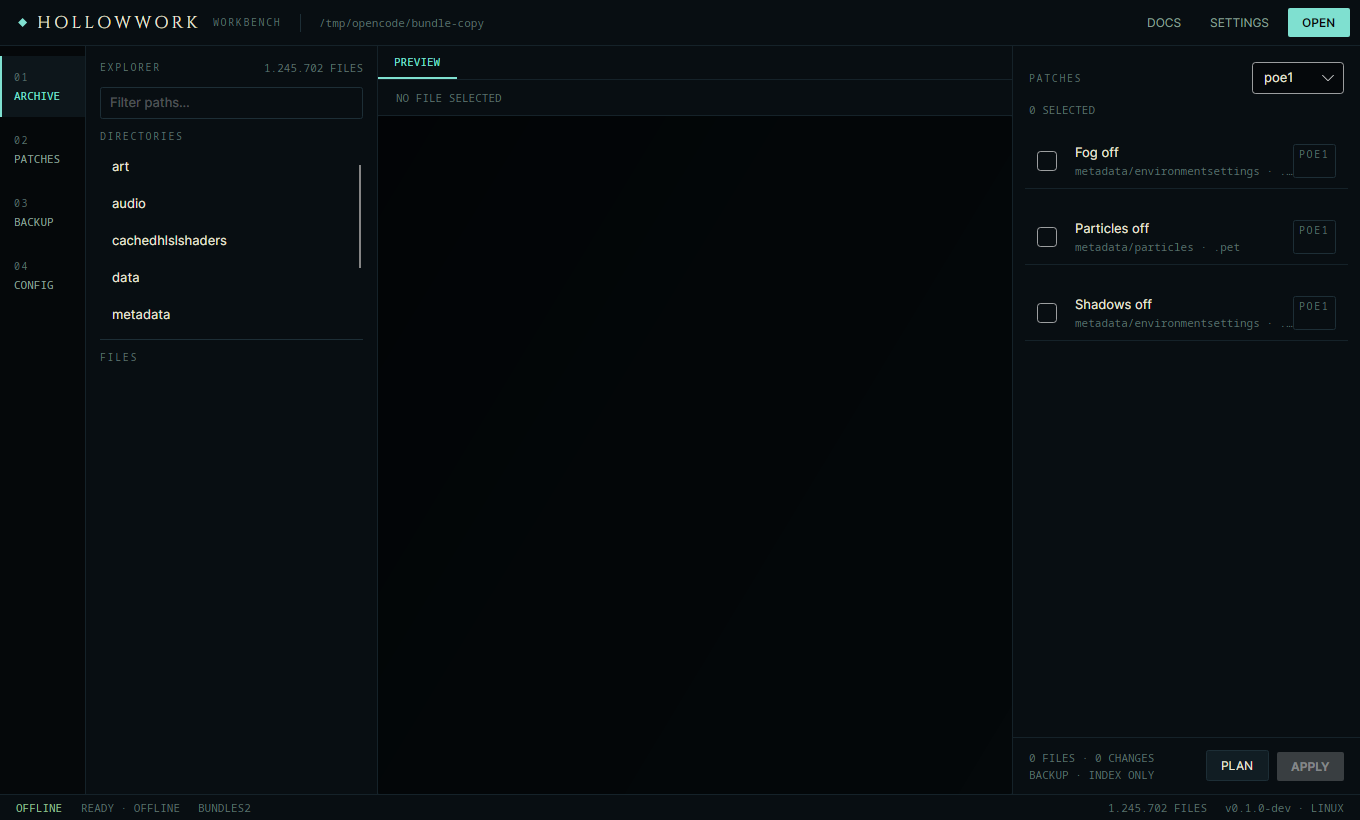
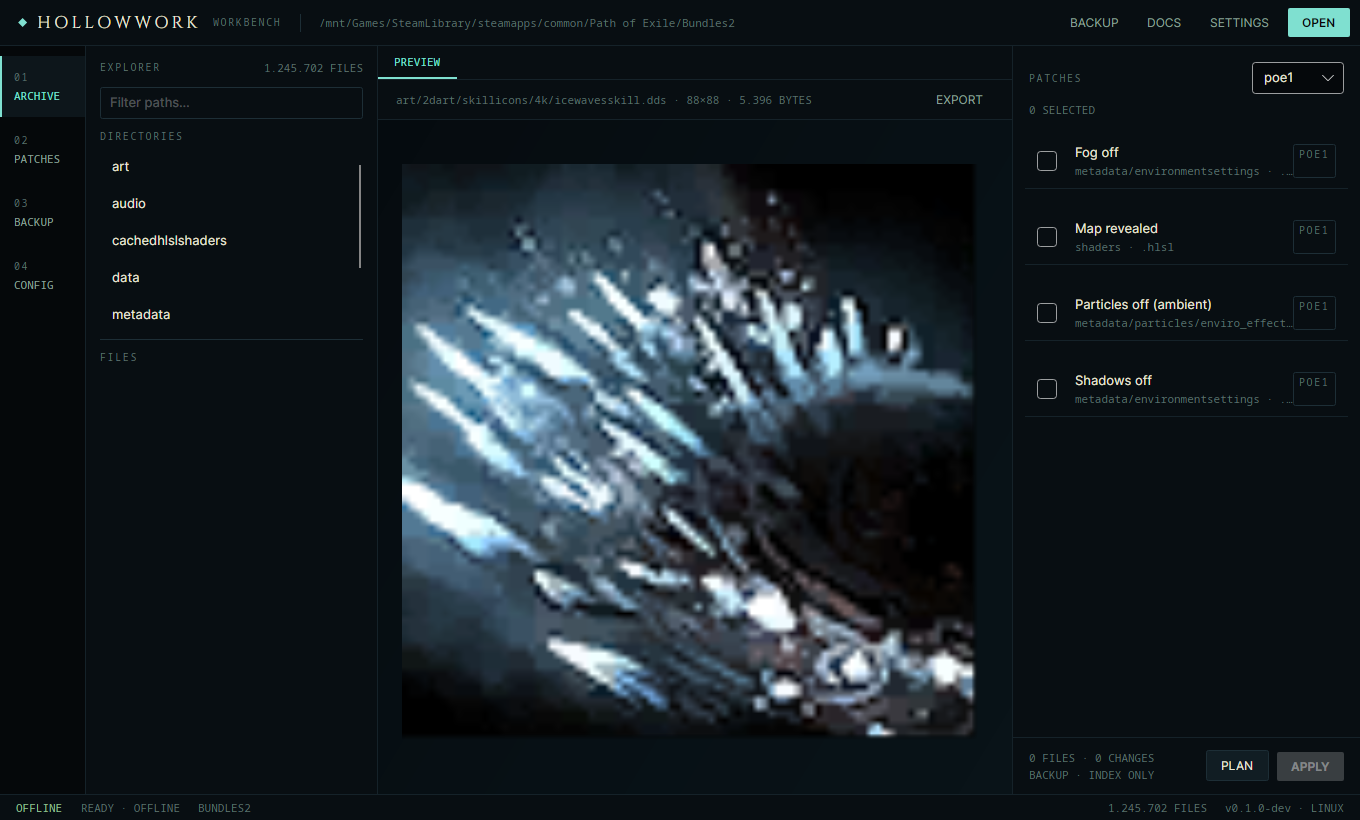
feat: dds preview and export in the browser (#19)

diff --git a/src/Hollowwork.App/ViewModels/MainWindowViewModel.cs b/src/Hollowwork.App/ViewModels/MainWindowViewModel.cs
@@ -1,12 +1,17 @@
 using System.Collections.ObjectModel;
 using System.ComponentModel;
 using System.Runtime.CompilerServices;
+using System.Runtime.InteropServices;
+using Avalonia;
+using Avalonia.Media.Imaging;
+using Avalonia.Platform;
 using Hollowwork.App;
 using Hollowwork.Core.Archives;
 using Hollowwork.Core.Backup;
 using Hollowwork.Core.Oodle;
 using Hollowwork.Core.Patches;
 using Hollowwork.Core.Text;
+using Hollowwork.Core.Textures;
 using Hollowwork.Patches;
 
 namespace Hollowwork.App.ViewModels;
@@ -18,6 +23,9 @@ public sealed class MainWindowViewModel : INotifyPropertyChanged, IDisposable
     private const int PreviewLimit = 200_000;
 
     private IArchiveSession? _session;
+    private WriteableBitmap? _previewImage;
+    private byte[]? _selectedBytes;
+    private string? _selectedPath;
     private PatchPlan? _plan;
     private string? _currentDirectory;
     private bool _applyArmed;
@@ -131,6 +139,29 @@ public sealed class MainWindowViewModel : INotifyPropertyChanged, IDisposable
         private set => Set(ref _isBusy, value);
     }
 
+    public WriteableBitmap? PreviewImage
+    {
+        get => _previewImage;
+        private set
+        {
+            if (ReferenceEquals(_previewImage, value))
+            {
+                return;
+            }
+
+            _previewImage?.Dispose();
+            _previewImage = value;
+            OnPropertyChanged();
+            OnPropertyChanged(nameof(HasImage));
+        }
+    }
+
+    public bool HasImage => _previewImage is not null;
+
+    public string? SelectedPath => _selectedPath;
+
+    public bool CanExport => _selectedBytes is not null;
+
     public string SelectionLabel => $"{Patches.Count(patch => patch.IsSelected)} SELECTED";
 
     public string? CurrentInputPath { get; private set; }
@@ -161,6 +192,10 @@ public sealed class MainWindowViewModel : INotifyPropertyChanged, IDisposable
         ResetPlan();
         PreviewHeader = "NO FILE SELECTED";
         PreviewText = string.Empty;
+        PreviewImage = null;
+        _selectedBytes = null;
+        _selectedPath = null;
+        OnPropertyChanged(nameof(CanExport));
 
         IArchiveSession? session = null;
         try
@@ -181,7 +216,7 @@ public sealed class MainWindowViewModel : INotifyPropertyChanged, IDisposable
             CountLabel = $"{paths.Count:N0} FILES";
             BackupNotice = _session.Kind == ArchiveKind.Ggpk
                 ? "BACKUP · FULL ARCHIVE"
-                : "BACKUP · INDEX ONLY";
+                : "BACKUP · INDEX + LIBGGPK3";
             StatusLabel = "READY · OFFLINE";
 
             Directories.Clear();
@@ -254,6 +289,21 @@ public sealed class MainWindowViewModel : INotifyPropertyChanged, IDisposable
                 _session.TryRead(path, out var content);
                 return content;
             });
+
+            _selectedBytes = bytes;
+            _selectedPath = path;
+            OnPropertyChanged(nameof(CanExport));
+            OnPropertyChanged(nameof(SelectedPath));
+            PreviewImage = null;
+            PreviewText = string.Empty;
+
+            if (path.EndsWith(".dds", StringComparison.OrdinalIgnoreCase)
+                && TextureDecoder.TryDecodeDds(bytes, out var texture))
+            {
+                PreviewImage = ToBitmap(texture);
+                PreviewHeader = $"{path} · {texture.Width}×{texture.Height} · {bytes.Length:N0} BYTES";
+                return;
+            }
 
             PreviewHeader = $"{path} · {bytes.Length:N0} BYTES";
 
@@ -385,10 +435,39 @@ public sealed class MainWindowViewModel : INotifyPropertyChanged, IDisposable
         }
     }
 
+    public async Task ExportAsync(string destination)
+    {
+        if (_selectedBytes is null)
+        {
+            return;
+        }
+
+        await File.WriteAllBytesAsync(destination, _selectedBytes);
+        StatusLabel = $"EXPORTED · {destination}";
+    }
+
     public void Dispose()
     {
         _session?.Dispose();
         _session = null;
+    }
+
+    private static WriteableBitmap ToBitmap(DecodedTexture texture)
+    {
+        var bitmap = new WriteableBitmap(
+            new PixelSize(texture.Width, texture.Height),
+            new Vector(96, 96),
+            PixelFormat.Bgra8888,
+            AlphaFormat.Unpremul);
+
+        using var buffer = bitmap.Lock();
+        var rowBytes = texture.Width * 4;
+        for (var y = 0; y < texture.Height; y++)
+        {
+            Marshal.Copy(texture.Bgra, y * rowBytes, IntPtr.Add(buffer.Address, y * buffer.RowBytes), rowBytes);
+        }
+
+        return bitmap;
     }
 
     private void LoadPatches()

diff --git a/src/Hollowwork.App/Views/MainWindow.axaml.cs b/src/Hollowwork.App/Views/MainWindow.axaml.cs
@@ -9,25 +9,33 @@ public partial class MainWindow : Window
 {
     private readonly MainWindowViewModel _viewModel = new();
 
-    public MainWindow() : this(null, false)
+    public MainWindow() : this(null, false, null)
     {
     }
 
-    public MainWindow(string? initialPath, bool openBackups = false)
+    public MainWindow(string? initialPath, bool openBackups = false, string? initialFile = null)
     {
         InitializeComponent();
         DataContext = _viewModel;
         Closed += (_, _) => _viewModel.Dispose();
 
-        if (!string.IsNullOrWhiteSpace(initialPath))
+        Opened += async (_, _) =>
         {
-            Opened += async (_, _) => await _viewModel.OpenAsync(initialPath);
-        }
+            if (!string.IsNullOrWhiteSpace(initialPath))
+            {
+                await _viewModel.OpenAsync(initialPath);
+            }
 
-        if (openBackups)
-        {
-            Opened += async (_, _) => await ShowBackupsAsync();
-        }
+            if (!string.IsNullOrWhiteSpace(initialFile))
+            {
+                await _viewModel.SelectFileAsync(initialFile);
+            }
+
+            if (openBackups)
+            {
+                await ShowBackupsAsync();
+            }
+        };
     }
 
     private async void OnOpenGgpkClicked(object? sender, RoutedEventArgs e)
@@ -100,6 +108,28 @@ public partial class MainWindow : Window
         {
             _viewModel.CloseArchive();
             await _viewModel.OpenAsync(inputPath);
+        }
+    }
+
+    private async void OnExportClicked(object? sender, RoutedEventArgs e)
+    {
+        var selected = _viewModel.SelectedPath;
+        var top = TopLevel.GetTopLevel(this);
+        if (selected is null || top is null)
+        {
+            return;
+        }
+
+        var file = await top.StorageProvider.SaveFilePickerAsync(new FilePickerSaveOptions
+        {
+            Title = "Export file",
+            SuggestedFileName = Path.GetFileName(selected),
+            DefaultExtension = Path.GetExtension(selected).TrimStart('.'),
+        });
+
+        if (file?.TryGetLocalPath() is { } destination)
+        {
+            await _viewModel.ExportAsync(destination);
         }
     }
 

diff --git a/src/Hollowwork.Core/Textures/TextureDecoder.cs b/src/Hollowwork.Core/Textures/TextureDecoder.cs
@@ -1,0 +1,77 @@
+using Pfim;
+
+namespace Hollowwork.Core.Textures;
+
+public sealed record DecodedTexture(int Width, int Height, byte[] Bgra);
+
+public static class TextureDecoder
+{
+    public static bool TryDecodeDds(byte[] bytes, out DecodedTexture texture)
+    {
+        texture = null!;
+        try
+        {
+            using var stream = new MemoryStream(bytes, writable: false);
+            using var dds = Dds.Create(stream, new PfimConfig());
+            if (dds.Width <= 0 || dds.Height <= 0)
+            {
+                return false;
+            }
+
+            var bgra = ToBgra(dds);
+            if (bgra is null)
+            {
+                return false;
+            }
+
+            texture = new DecodedTexture(dds.Width, dds.Height, bgra);
+            return true;
+        }
+        catch
+        {
+            return false;
+        }
+    }
+
+    private static byte[]? ToBgra(Dds dds)
+    {
+        var width = dds.Width;
+        var height = dds.Height;
+        var source = dds.Data;
+        var stride = dds.Stride;
+
+        switch (dds.Format)
+        {
+            case ImageFormat.Rgba32:
+            {
+                var result = new byte[width * height * 4];
+                for (var y = 0; y < height; y++)
+                {
+                    Buffer.BlockCopy(source, y * stride, result, y * width * 4, width * 4);
+                }
+
+                return result;
+            }
+            case ImageFormat.Rgb24:
+            {
+                var result = new byte[width * height * 4];
+                for (var y = 0; y < height; y++)
+                {
+                    for (var x = 0; x < width; x++)
+                    {
+                        var src = y * stride + x * 3;
+                        var dst = (y * width + x) * 4;
+                        result[dst] = source[src + 2];
+                        result[dst + 1] = source[src + 1];
+                        result[dst + 2] = source[src];
+                        result[dst + 3] = 255;
+                    }
+                }
+
+                return result;
+            }
+            default:
+                return null;
+        }
+    }
+}

diff --git a/tests/Hollowwork.Core.Tests/TextureDecoderTests.cs b/tests/Hollowwork.Core.Tests/TextureDecoderTests.cs
@@ -1,0 +1,64 @@
+using Hollowwork.Core.Textures;
+
+namespace Hollowwork.Core.Tests;
+
+public class TextureDecoderTests
+{
+    [Fact]
+    public void Decodes_a_minimal_uncompressed_dds()
+    {
+        var dds = BuildDds(0x11, 0x22, 0x33, 0x44);
+
+        Assert.True(TextureDecoder.TryDecodeDds(dds, out var texture));
+        Assert.Equal(1, texture.Width);
+        Assert.Equal(1, texture.Height);
+        Assert.Equal(new byte[] { 0x33, 0x22, 0x11, 0x44 }, texture.Bgra);
+    }
+
+    [Fact]
+    public void Rejects_garbage()
+    {
+        Assert.False(TextureDecoder.TryDecodeDds([1, 2, 3, 4], out _));
+    }
+
+    private static byte[] BuildDds(byte r, byte g, byte b, byte a)
+    {
+        using var stream = new MemoryStream();
+        using var writer = new BinaryWriter(stream);
+
+        writer.Write(0x20534444u); // "DDS "
+        writer.Write(124u);
+        writer.Write(0x100Fu); // caps | height | width | pitch | pixelformat
+        writer.Write(1u); // height
+        writer.Write(1u); // width
+        writer.Write(4u); // pitch
+        writer.Write(0u); // depth
+        writer.Write(0u); // mipmaps
+        for (var i = 0; i < 11; i++)
+        {
+            writer.Write(0u);
+        }
+
+        writer.Write(32u); // pixel format size
+        writer.Write(0x41u); // RGB | ALPHAPIXELS
+        writer.Write(0u); // fourcc
+        writer.Write(32u); // bit count
+        writer.Write(0x000000FFu); // r
+        writer.Write(0x0000FF00u); // g
+        writer.Write(0x00FF0000u); // b
+        writer.Write(0xFF000000u); // a
+
+        writer.Write(0x1000u); // caps: texture
+        writer.Write(0u);
+        writer.Write(0u);
+        writer.Write(0u);
+        writer.Write(0u);
+
+        writer.Write(r);
+        writer.Write(g);
+        writer.Write(b);
+        writer.Write(a);
+        writer.Flush();
+        return stream.ToArray();
+    }
+}

diff --git a/src/Hollowwork.App/App.axaml.cs b/src/Hollowwork.App/App.axaml.cs
@@ -17,8 +17,21 @@ public partial class App : Application
         if (ApplicationLifetime is IClassicDesktopStyleApplicationLifetime desktop)
         {
             var args = desktop.Args ?? [];
-            var initialPath = args.FirstOrDefault(argument => !argument.StartsWith('-'));
-            desktop.MainWindow = new MainWindow(initialPath, args.Contains("--backups"));
+            string? initialPath = null;
+            string? initialFile = null;
+            for (var i = 0; i < args.Length; i++)
+            {
+                if (args[i] == "--file" && i + 1 < args.Length)
+                {
+                    initialFile = args[++i];
+                }
+                else if (!args[i].StartsWith('-') && initialPath is null)
+                {
+                    initialPath = args[i];
+                }
+            }
+
+            desktop.MainWindow = new MainWindow(initialPath, args.Contains("--backups"), initialFile);
         }
 
         base.OnFrameworkInitializationCompleted();
